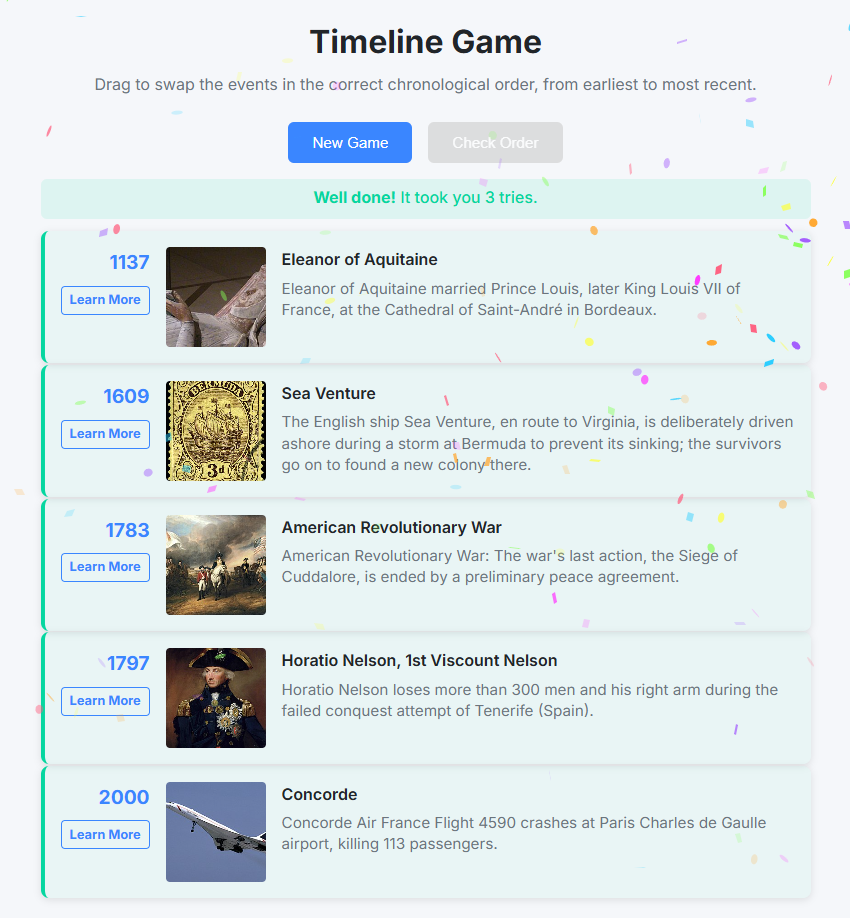
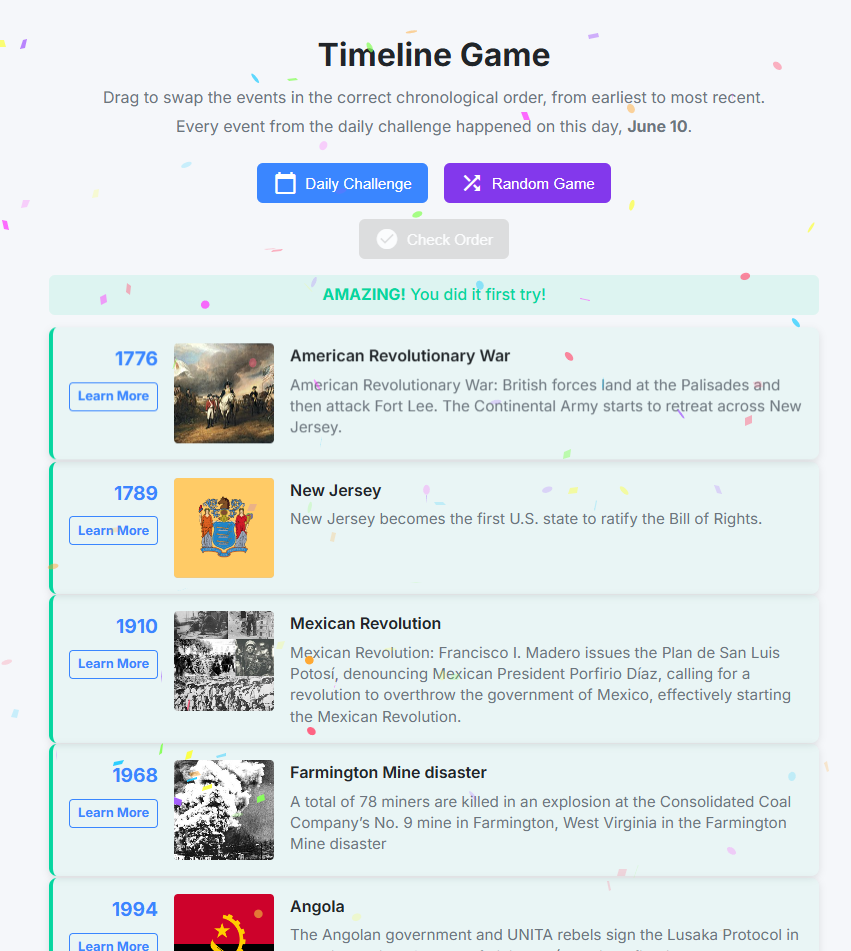
Added daily challenge mode.

diff --git a/assets/index.html b/assets/index.html
@@ -9,6 +9,7 @@
     <link rel="preconnect" href="https://fonts.googleapis.com">
     <link rel="preconnect" href="https://fonts.gstatic.com" crossorigin>
     <link href="https://fonts.googleapis.com/css2?family=Inter:wght@400;500;600;700&display=swap" rel="stylesheet">
+    <link href="https://fonts.googleapis.com/icon?family=Material+Icons" rel="stylesheet">
 </head>
 
 <body>
@@ -16,12 +17,26 @@
         <header>
             <h1>Timeline Game</h1>
             <p>Drag to swap the events in the correct chronological order, from earliest to most recent.</p>
+            <p>Every event from the daily challenge happened on this day, <strong><span id="currentDate"></span></strong>.</p>
         </header>
         
         <div class="controls">
-            <button onclick="startNewGame()" class="btn btn-primary">New Game</button>
-            <button onclick="checkOrder()" id="submitBtn" class="btn btn-secondary">Check Order</button>
+            <button onclick="startDailyChallenge()" class="btn btn-primary">
+                <span class="material-icons">calendar_today</span>
+                Daily Challenge
+            </button>
+            <button onclick="startNewGame()" class="btn btn-secondary">
+                <span class="material-icons">shuffle</span>
+                Random Game
+            </button>
         </div>
+        <div class="controls">
+            <button onclick="checkOrder()" id="submitBtn" class="btn btn-tertiary">
+                <span class="material-icons">check_circle</span>
+                Check Order
+            </button>
+        </div>
+
         
         <div id="score" class="score-container"></div>
         
@@ -32,6 +47,11 @@
       <p>Thanks for playing! Made with Fermyon Spin and TinyGo. <a href="https://github.com/richard-w1/timeline-game" target="_blank">GitHub</a></p>
     </footer>
     <script src="https://cdn.jsdelivr.net/npm/canvas-confetti@1.6.0/dist/confetti.browser.min.js"></script>
+    <script>
+        const now = new Date();
+        const options = { month: 'long', day: 'numeric' };
+        document.getElementById('currentDate').textContent = now.toLocaleDateString('en-US', options);
+    </script>
     <script src="app.js"></script>
 </body>
 </html>

diff --git a/assets/app.js b/assets/app.js
@@ -3,23 +3,23 @@ let currentOrder = []
 const correctPositions = new Set()
 let tries = 0
 
+async function startGame(mode) {
+    const scoreDiv = document.getElementById("score")
+    scoreDiv.innerHTML = ""
+    scoreDiv.className = "score-container"
+    tries = 0
+    document.getElementById("submitBtn").disabled = false
 
-function startNewGame() {
-  const scoreDiv = document.getElementById("score")
-  scoreDiv.innerHTML = ""
-  scoreDiv.className = "score-container"
-  tries = 0
-  document.getElementById("submitBtn").disabled = false
-
-  fetch("/api/new-game")
-    .then((response) => response.json())
-    .then((data) => {
-      currentEvents = data.events
-      currentOrder = Array.from({ length: currentEvents.length }, (_, i) => i)
-      correctPositions.clear()
-      displayEvents()
-    })
+    const response = await fetch(`/api/${mode === 'daily' ? 'daily-challenge' : 'new-game'}`)
+    const data = await response.json()
+    currentEvents = data.events
+    currentOrder = Array.from({ length: currentEvents.length }, (_, i) => i)
+    correctPositions.clear()
+    displayEvents()
 }
+
+const startDailyChallenge = () => startGame('daily')
+const startNewGame = () => startGame('random')
 
 //
 function displayEvents() {
@@ -152,7 +152,15 @@ function checkOrder() {
 
         //game completed
       if (data.correct) {
-        scoreDiv.innerHTML = "<strong>Well done!</strong> It took you " + tries + " tries."
+        let message;
+        if (tries === 1) {
+            message = "<strong>AMAZING!</strong> You did it first try!";
+        } else if (tries <= 3) {
+            message = "<strong>Wow!</strong> You did it in only " + tries + " tries!";
+        } else {
+            message = "<strong>Well done!</strong> You completed in " + tries + " tries!";
+        }
+        scoreDiv.innerHTML = message;
         scoreDiv.className = "score-container correct"
         correctPositions.clear()
         currentOrder.forEach((_, idx) => correctPositions.add(idx))
@@ -209,4 +217,4 @@ function checkOrder() {
     })
 }
 
-document.addEventListener("DOMContentLoaded", startNewGame)
+document.addEventListener("DOMContentLoaded", startDailyChallenge)

diff --git a/assets/styles.css b/assets/styles.css
@@ -1,6 +1,7 @@
 :root {
     --primary-color: #3a86ff;
     --secondary-color: #8338ec;
+    --tertiary-color: #27ae60;
     --success-color: #06d6a0;
     --light-color: #f8f9fa;
     --dark-color: #212529;
@@ -61,7 +62,13 @@
   }
   
   .btn {
-    padding: 0.75rem 1.5rem;
+    display: inline-flex;
+    align-items: center;
+    gap: 0.5rem;
+    padding: 0.5rem 1rem;
+    border-radius: 4px;
+    cursor: pointer;
+    transition: background-color 0.2s;
     border: none;
     border-radius: 6px;
     font-weight: 500;
@@ -86,6 +93,15 @@
   
   .btn-secondary:hover {
     background-color: #7028d8;
+  }
+
+  .btn-tertiary {
+    background-color: var(--tertiary-color);
+    color: white;
+  }
+
+  .btn-tertiary:hover {
+    background-color: #27ae60;
   }
   
   .score-container {

diff --git a/main.go b/main.go
@@ -13,7 +13,7 @@ import (
 	spinhttp "github.com/fermyon/spin/sdk/go/v2/http"
 )
 
-type HistoricalEvent struct {
+type WikiEvent struct {
 	Title       string    `json:"title"`
 	Description string    `json:"description"`
 	Date        time.Time `json:"date"`
@@ -21,14 +21,16 @@ type HistoricalEvent struct {
 	ImageURL    string    `json:"imageUrl,omitempty"`
 }
 
-func getWikipediaImage(title string) (string, error) {
-	// Convert title to URL format
-	url := fmt.Sprintf("https://en.wikipedia.org/w/api.php?action=query&titles=%s&prop=pageimages&format=json&pithumbsize=300", url.QueryEscape(title))
+var (
+	dailyEvents    []WikiEvent
+	dailyTimestamp time.Time
+	gameRnd        = rand.New(rand.NewSource(time.Now().UnixNano()))
+	dailyRnd       = rand.New(rand.NewSource(0))
+)
 
-	resp, err := spinhttp.Get(url)
-	if err != nil {
-		return "", fmt.Errorf("failed to fetch image: %v", err)
-	}
+func getImages(title string) string {
+	url := fmt.Sprintf("https://en.wikipedia.org/w/api.php?action=query&titles=%s&prop=pageimages&format=json&pithumbsize=300", url.QueryEscape(title))
+	resp, _ := spinhttp.Get(url)
 	defer resp.Body.Close()
 
 	var result struct {
@@ -41,39 +43,35 @@ func getWikipediaImage(title string) (string, error) {
 		} `json:"query"`
 	}
 
-	if err := json.NewDecoder(resp.Body).Decode(&result); err != nil {
-		return "", fmt.Errorf("failed to parse image response: %v", err)
-	}
-
-	// Get the first (and only) page
+	json.NewDecoder(resp.Body).Decode(&result)
 	for _, page := range result.Query.Pages {
 		if page.Thumbnail.Source != "" {
-			return page.Thumbnail.Source, nil
+			return page.Thumbnail.Source
 		}
 	}
-
-	return "", nil
+	return ""
 }
 
-func fetchWikipediaEvents() ([]HistoricalEvent, error) {
-	// random date
+func fetchEvents(mode int) []WikiEvent {
 	now := time.Now()
-	startOfYear := time.Date(now.Year(), 1, 1, 0, 0, 0, 0, time.UTC)
-	randomDays := rand.Intn(365)
-	randomDate := startOfYear.AddDate(0, 0, randomDays)
+	var targetDate time.Time
 
-	url := fmt.Sprintf("https://byabbe.se/on-this-day/%d/%d/events.json", randomDate.Month(), randomDate.Day())
-
-	resp, err := spinhttp.Get(url)
-	if err != nil {
-		return nil, fmt.Errorf("failed to make request: %v", err)
+	if mode == 0 {
+		// daily
+		targetDate = now
+	} else {
+		// random
+		startOfYear := time.Date(now.Year(), 1, 1, 0, 0, 0, 0, time.UTC)
+		randomDays := gameRnd.Intn(365)
+		targetDate = startOfYear.AddDate(0, 0, randomDays)
 	}
+
+	url := fmt.Sprintf("https://byabbe.se/on-this-day/%d/%d/events.json",
+		targetDate.Month(), targetDate.Day())
+	resp, _ := spinhttp.Get(url)
 	defer resp.Body.Close()
 
-	body, err := io.ReadAll(resp.Body)
-	if err != nil {
-		return nil, fmt.Errorf("failed to read response body: %v", err)
-	}
+	body, _ := io.ReadAll(resp.Body)
 
 	var apiResp struct {
 		Date   string `json:"date"`
@@ -86,24 +84,16 @@ func fetchWikipediaEvents() ([]HistoricalEvent, error) {
 			} `json:"wikipedia"`
 		} `json:"events"`
 	}
-	if err := json.Unmarshal(body, &apiResp); err != nil {
-		return nil, fmt.Errorf("failed to parse response: %v", err)
-	}
+	json.Unmarshal(body, &apiResp)
 
-	if len(apiResp.Events) == 0 {
-		return nil, fmt.Errorf("no events found for date %d/%d", randomDate.Month(), randomDate.Day())
-	}
-
-	// First, collect all valid events without images
-	validEvents := make([]HistoricalEvent, 0, len(apiResp.Events))
+	validEvents := make([]WikiEvent, 0, len(apiResp.Events))
 	for _, e := range apiResp.Events {
-		year, err := strconv.Atoi(e.Year)
-		if err != nil || year <= 0 || year > time.Now().Year() {
+		year, _ := strconv.Atoi(e.Year)
+		if year <= 0 || year > time.Now().Year() {
 			continue
 		}
 
-		date := time.Date(year, randomDate.Month(), randomDate.Day(), 0, 0, 0, 0, time.UTC)
-
+		date := time.Date(year, targetDate.Month(), targetDate.Day(), 0, 0, 0, 0, time.UTC)
 		title := e.Description
 		if len(e.Wikipedia) > 0 && e.Wikipedia[0].Title != "" {
 			title = e.Wikipedia[0].Title
@@ -113,7 +103,7 @@ func fetchWikipediaEvents() ([]HistoricalEvent, error) {
 			continue
 		}
 
-		validEvents = append(validEvents, HistoricalEvent{
+		validEvents = append(validEvents, WikiEvent{
 			Title:       title,
 			Description: e.Description,
 			Date:        date,
@@ -121,33 +111,31 @@ func fetchWikipediaEvents() ([]HistoricalEvent, error) {
 		})
 	}
 
-	if len(validEvents) == 0 {
-		return nil, fmt.Errorf("no valid events found for date %d/%d", randomDate.Month(), randomDate.Day())
+	// check mode
+	if mode == 0 {
+		dailyRnd.Shuffle(len(validEvents), func(i, j int) {
+			validEvents[i], validEvents[j] = validEvents[j], validEvents[i]
+		})
+	} else {
+		gameRnd.Shuffle(len(validEvents), func(i, j int) {
+			validEvents[i], validEvents[j] = validEvents[j], validEvents[i]
+		})
 	}
-
-	// Shuffle and pick 5 events
-	rand.Shuffle(len(validEvents), func(i, j int) {
-		validEvents[i], validEvents[j] = validEvents[j], validEvents[i]
-	})
 
 	numEvents := 5
 	if len(validEvents) < numEvents {
 		numEvents = len(validEvents)
 	}
 
-	// Now fetch images only for the selected events
 	for i := 0; i < numEvents; i++ {
-		imageURL, _ := getWikipediaImage(validEvents[i].Title)
-		validEvents[i].ImageURL = imageURL
+		validEvents[i].ImageURL = getImages(validEvents[i].Title)
 	}
 
-	return validEvents[:numEvents], nil
+	return validEvents[:numEvents]
 }
 
-// spin http handler
+// api handlers
 func init() {
-	rand.Seed(time.Now().UnixNano())
-
 	spinhttp.Handle(func(w http.ResponseWriter, r *http.Request) {
 		w.Header().Set("Access-Control-Allow-Origin", "*")
 		w.Header().Set("Access-Control-Allow-Methods", "GET, POST, OPTIONS")
@@ -159,48 +147,31 @@ func init() {
 		}
 
 		if r.URL.Path == "/api/new-game" {
-			events, err := fetchWikipediaEvents()
-			if err != nil {
-				w.WriteHeader(http.StatusInternalServerError)
-				json.NewEncoder(w).Encode(map[string]string{"error": err.Error()})
-				return
-			}
-
-			rand.Shuffle(len(events), func(i, j int) {
-				events[i], events[j] = events[j], events[i]
-			})
-
-			numEvents := 5
-			if len(events) < numEvents {
-				numEvents = len(events)
-			}
-
-			response := struct {
-				Events []HistoricalEvent `json:"events"`
+			events := fetchEvents(1)
+			json.NewEncoder(w).Encode(struct {
+				Events []WikiEvent `json:"events"`
 			}{
-				Events: events[:numEvents],
-			}
+				Events: events,
+			})
+			return
+		}
 
-			json.NewEncoder(w).Encode(response)
+		if r.URL.Path == "/api/daily-challenge" {
+			events := fetchEvents(0)
+			json.NewEncoder(w).Encode(struct {
+				Events []WikiEvent `json:"events"`
+			}{
+				Events: events,
+			})
 			return
 		}
 
 		if r.URL.Path == "/api/check-order" {
 			var req struct {
-				Order  []int             `json:"order"`
-				Events []HistoricalEvent `json:"events"`
+				Order  []int       `json:"order"`
+				Events []WikiEvent `json:"events"`
 			}
-			if err := json.NewDecoder(r.Body).Decode(&req); err != nil {
-				w.WriteHeader(http.StatusBadRequest)
-				json.NewEncoder(w).Encode(map[string]string{"error": "Invalid request"})
-				return
-			}
-
-			if len(req.Order) != len(req.Events) {
-				w.WriteHeader(http.StatusBadRequest)
-				json.NewEncoder(w).Encode(map[string]string{"error": "Invalid order length"})
-				return
-			}
+			json.NewDecoder(r.Body).Decode(&req)
 
 			correct := true
 			years := make([]int, len(req.Order))
@@ -215,7 +186,6 @@ func init() {
 				years[i] = req.Events[idx].Year
 			}
 
-			// todo: add scoring (maybe)
 			score := 0
 			if correct {
 				score = 1000
